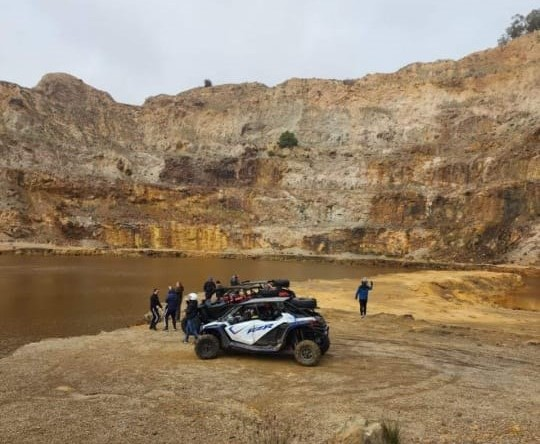
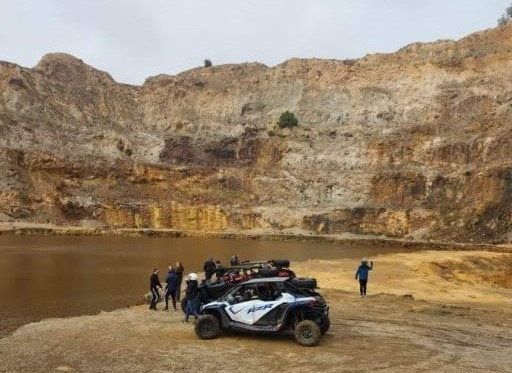
Add files via upload

diff --git a/index.html b/index.html
@@ -46,7 +46,7 @@
             class="navbar navbar-expand-lg bg-light border-radius-xl top-0 z-index-fixed position-absolute my-1 py-2 start-0 end-0 mx-1"
             style="box-shadow: 2px 2px 5px rgb(124, 119, 119)">
             <div class="container-fluid px-0">
-              <img src="./assets/img/logo.png" alt style="width: 30px" />
+              <img src="./assets/img/entreprise.png" alt style="width: 30px" />
               <a class="navbar-brand font-weight-bolder ms-sm-3"
                 style="font-size: 22px" href="#">Tierra Y Mar Moto </a>
               <button
@@ -134,7 +134,6 @@
     <div class="card card-body blur shadow-blur mx-3 mx-md-4 mt-n6">
       <section class="pt-3 pb-4" id="count-stats">
         <div class="container">
-
         </div>
         <div>
           <div class="about" id="about">
@@ -142,9 +141,12 @@
               <h2 class="text-center mb-4">About us</h2>
           
               <div class="row">
-                  <div class="col-md-6 text-center" style="padding: 2px 15px;">
-                      <img src="./assets/img/logo.png" class="img-fluid rounded" alt="About us">
+                  <div class="col-md-6 text-center" style="padding: 12px 15px;">
+                    <iframe width="100%" height="300px"  src="https://www.youtube.com/embed/lDuDG93eJOw" frameborder="0" allowfullscreen></iframe>
+
+
                   </div>
+                  <!-- <img src="./assets/img/entreprise.png" class="img-fluid rounded" alt="About us"> -->
                   <div class="col-md-6 mt-2  text-justify">
                       <h4>Our Company</h4>
                       <p>
@@ -196,7 +198,7 @@
               <div class="row">
                 <div class="col-md-4 mb-4">
                   <div class="card">
-                    <img src="./assets/img/bg2.jpg" class="card-img-top"
+                    <img src="./assets/img/3.jpg" height="300px" class="card-img-top"
                       alt="Service 1">
                     <div class="card-body">
                       <h5 class="card-title">Sales</h5>
@@ -207,7 +209,7 @@
 
                 <div class="col-md-4 mb-4">
                   <div class="card">
-                    <img src="./assets/img/bg2.jpg" class="card-img-top"
+                    <img src="./assets/img/2.jpg" height="300px" class="card-img-top"
                       alt="Service 2">
                     <div class="card-body">
                       <h5 class="card-title">Rentals</h5>
@@ -218,7 +220,7 @@
 
                 <div class="col-md-4 mb-4">
                   <div class="card">
-                    <img src="./assets/img/bg2.jpg" class="card-img-top"
+                    <img src="./assets/img/bg2.jpg" height="300px" class="card-img-top"
                       alt="Service 3">
                     <div class="card-body">
                       <h5 class="card-title">Tours</h5>
@@ -237,7 +239,24 @@
             <div class="card mb-3">
               <div class="row">
                 <div class="col-md-4">
-                  <img src="./assets/img/bg1.jpg"
+                  <img src="./assets/img/5.jpg"
+                    class="img-fluid rounded-start" alt="..." height="100%"
+                    width="100%">
+                </div>
+                <div class="col-md-8">
+                  <div class="card-body">
+                    <h5 class="card-title">Iksane Village Historical</h5>
+                    <p class="card-text text-justify">Immerse yourself in history with the Iksane Village Historical Tour, a professionally guided motorcycle expedition that explores the rich cultural heritage of Sotolazar. Witness the ancient Spanish iron furnaces in the village of Iksane, where time seems to stand still. Marvel at well-preserved monuments and immerse yourself in the tales of bygone eras. This tour is designed for history enthusiasts and those eager to witness the legacy of Spanish influence on this charming village. Explore the past with Tierra Y Mar Moto's Iksane Village Historical Tour.</p>
+                    <!-- <p class="card-text"><small class="text-body-secondary">Last
+                        updated 3 mins ago</small></p> -->
+                  </div>
+                </div>
+              </div>
+            </div>
+            <div class="card mb-3">
+              <div class="row">
+                <div class="col-md-4">
+                  <img src="./assets/img/1.jpg"
                     class="img-fluid rounded-start" alt="..." height="100%"
                     width="100%">
                 </div>
@@ -253,7 +272,7 @@
             <div class="card mb-3">
               <div class="row">
                 <div class="col-md-4">
-                  <img src="./assets/img/bg1.jpg"
+                  <img src="./assets/img/6.jpg"
                     class="img-fluid rounded-start" alt="..." height="100%"
                     width="100%">
                 </div>
@@ -266,23 +285,7 @@
                 </div>
               </div>
             </div>
-            <div class="card mb-3">
-              <div class="row">
-                <div class="col-md-4">
-                  <img src="./assets/img/bg1.jpg"
-                    class="img-fluid rounded-start" alt="..." height="100%"
-                    width="100%">
-                </div>
-                <div class="col-md-8">
-                  <div class="card-body">
-                    <h5 class="card-title">Iksane Village Historical</h5>
-                    <p class="card-text text-justify">Immerse yourself in history with the Iksane Village Historical Tour, a professionally guided motorcycle expedition that explores the rich cultural heritage of Sotolazar. Witness the ancient Spanish iron furnaces in the village of Iksane, where time seems to stand still. Marvel at well-preserved monuments and immerse yourself in the tales of bygone eras. This tour is designed for history enthusiasts and those eager to witness the legacy of Spanish influence on this charming village. Explore the past with Tierra Y Mar Moto's Iksane Village Historical Tour.</p>
-                    <!-- <p class="card-text"><small class="text-body-secondary">Last
-                        updated 3 mins ago</small></p> -->
-                  </div>
-                </div>
-              </div>
-            </div>
+           
           </div>
         
           </div>
